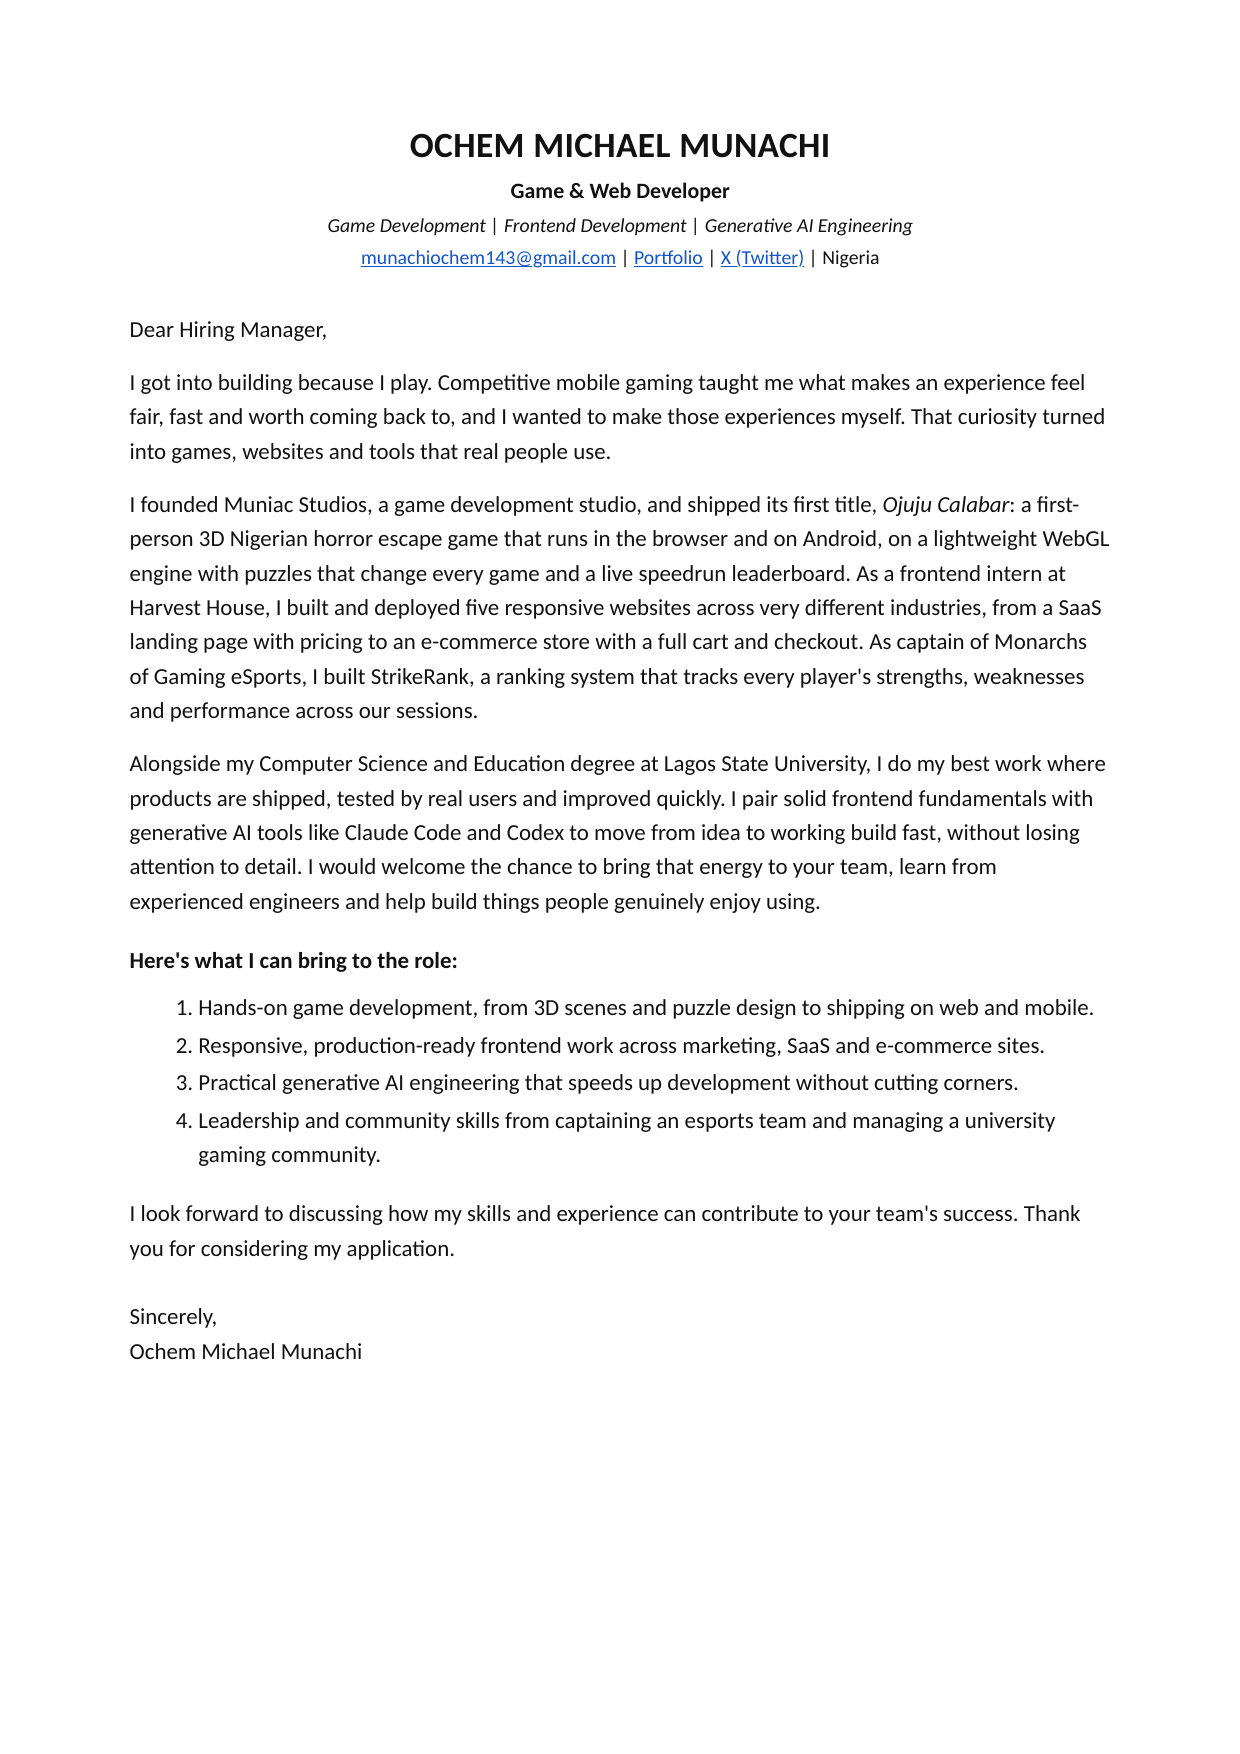
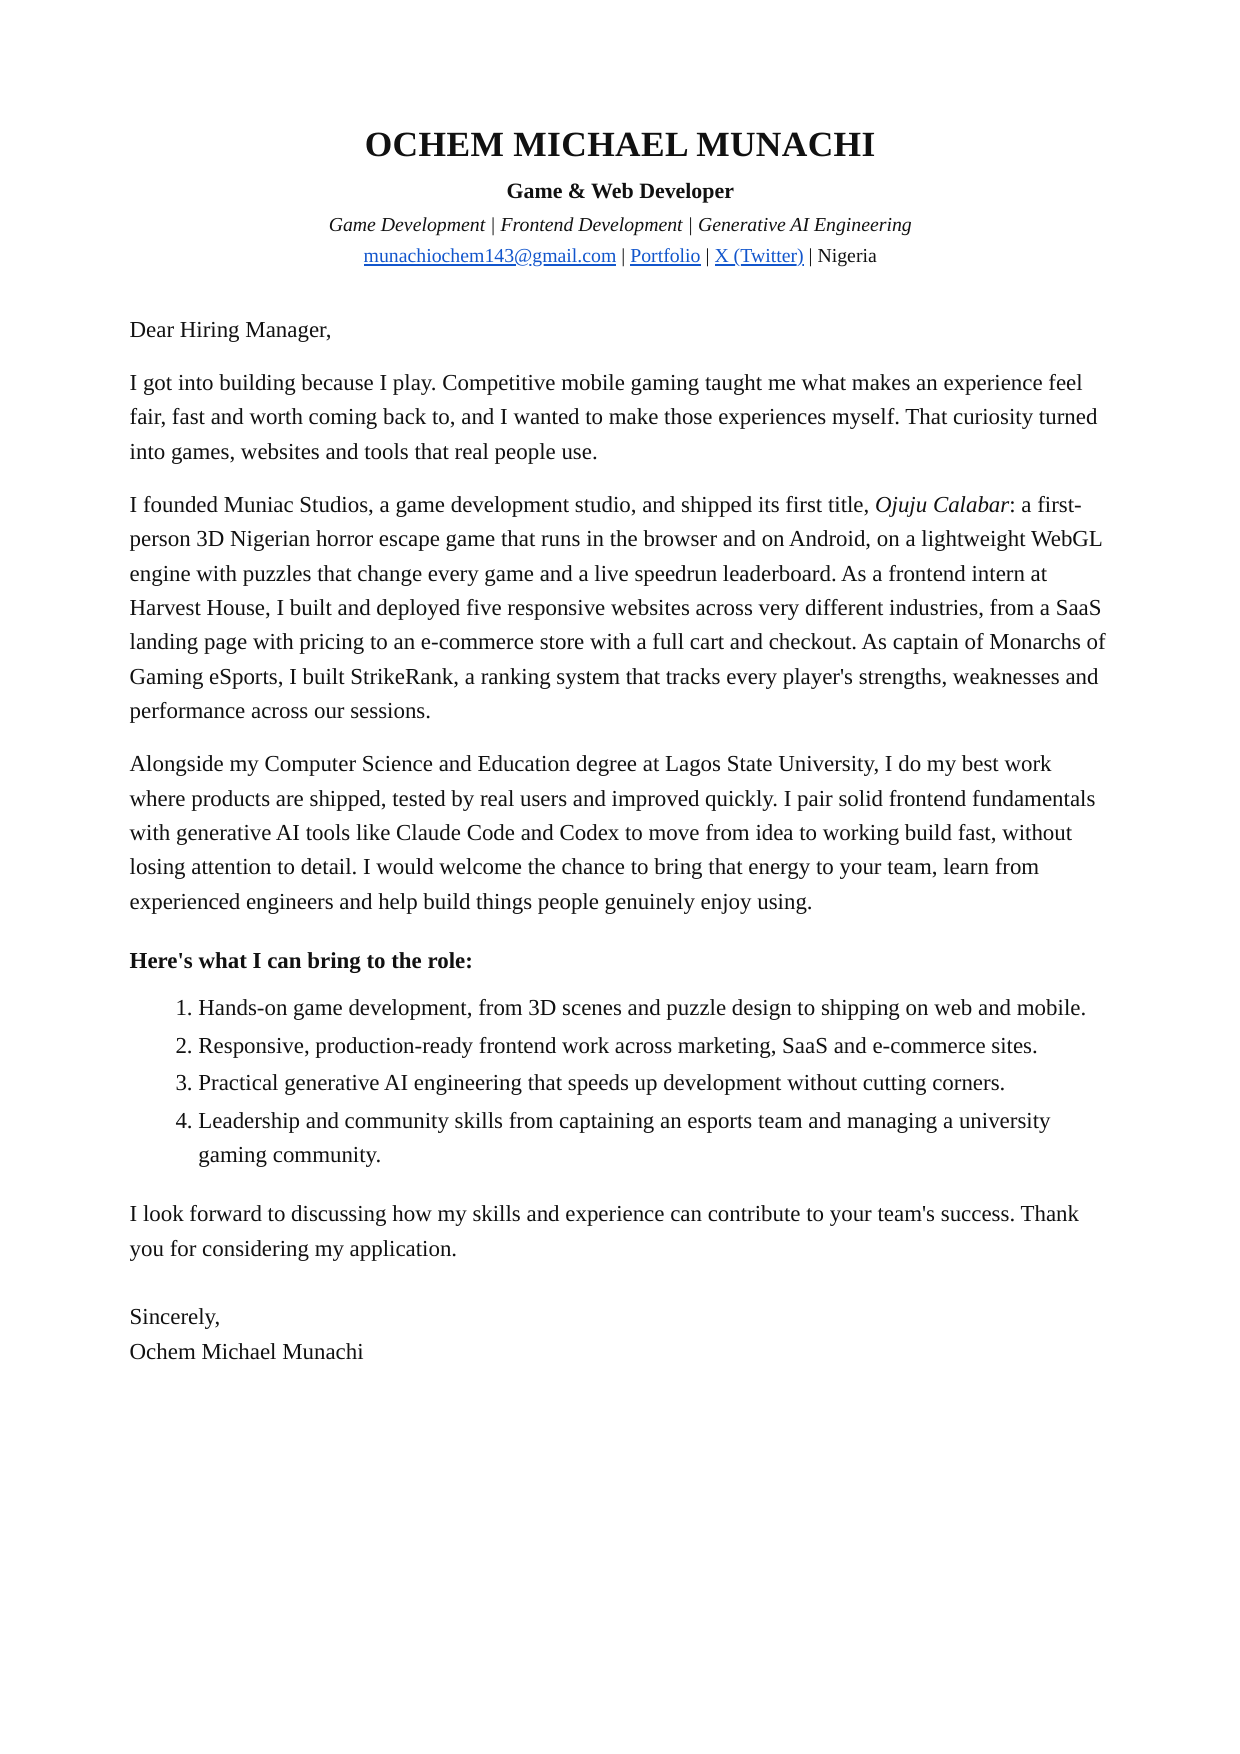
Cover letter uses the resume's serif font
Claude-Session: https://claude.ai/code/session_01FznZV5MkKYJcrxBuXv8rFi

diff --git a/docs/cover-letter-source.html b/docs/cover-letter-source.html
@@ -6,7 +6,7 @@
 <style>
 @page{size:A4;margin:20mm 22mm 20mm 22mm}
 *{box-sizing:border-box}
-body{margin:0;font-family:'Carlito','Calibri',Arial,sans-serif;font-size:11pt;line-height:1.5;color:#111}
+body{margin:0;font-family:'Liberation Serif','Times New Roman',Times,serif;font-size:11pt;line-height:1.5;color:#111}
 h1{text-align:center;font-size:17pt;font-weight:700;margin:0;letter-spacing:.01em}
 .title{text-align:center;font-weight:700;font-size:10.5pt;margin:2px 0 0}
 .spec{text-align:center;font-style:italic;font-size:9.5pt;margin:2px 0 0}
